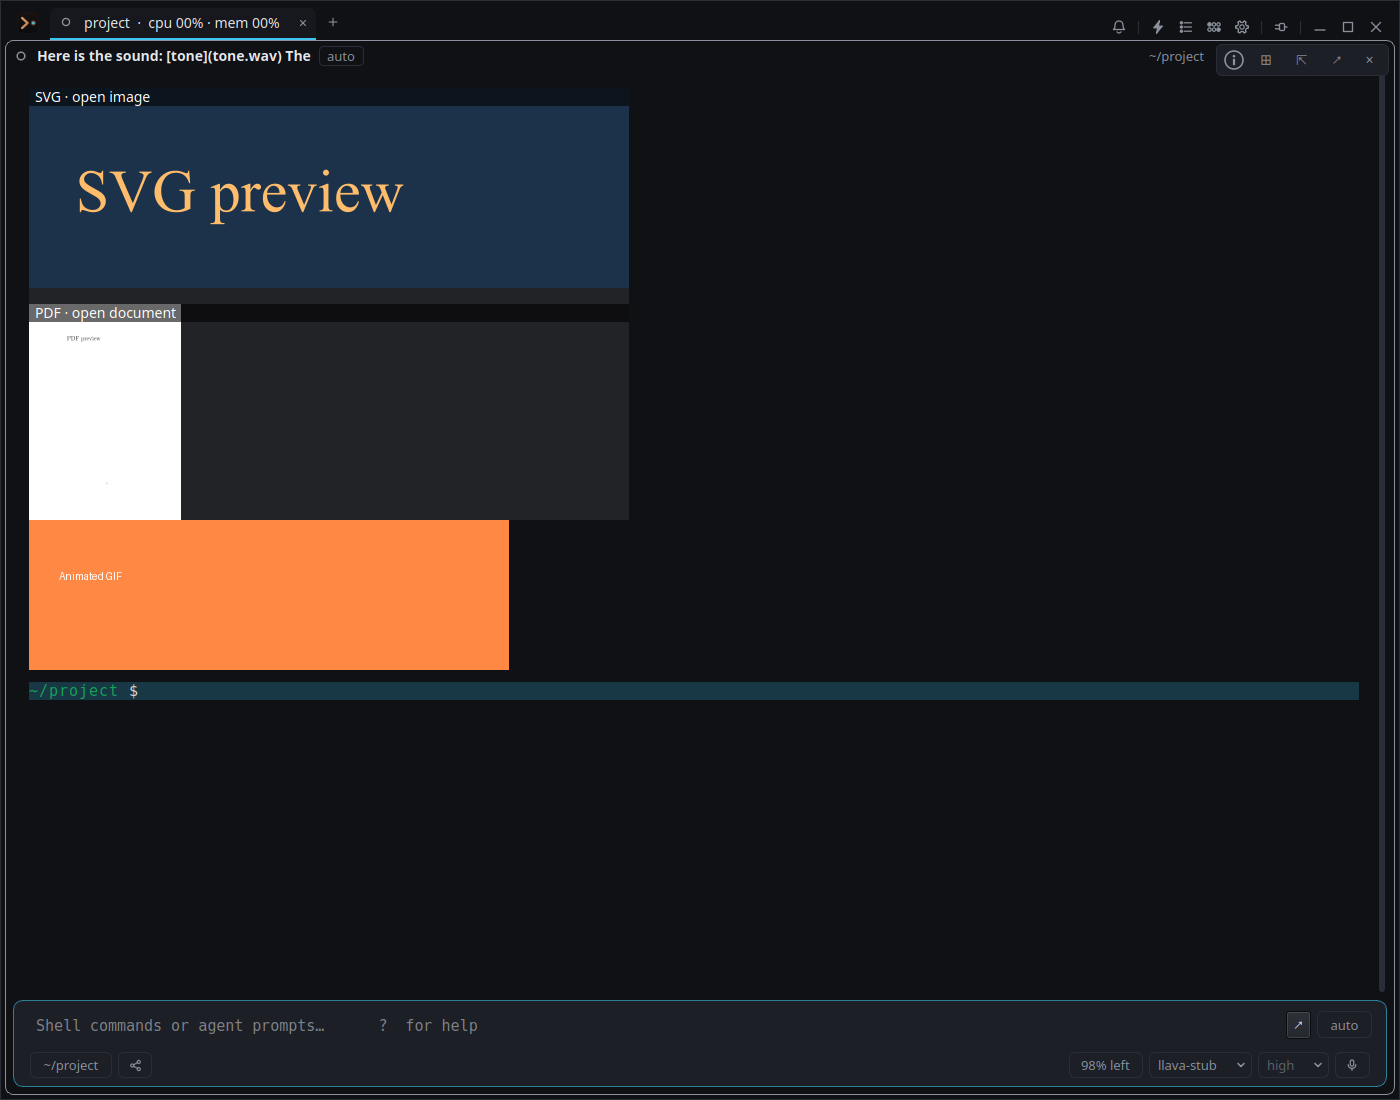
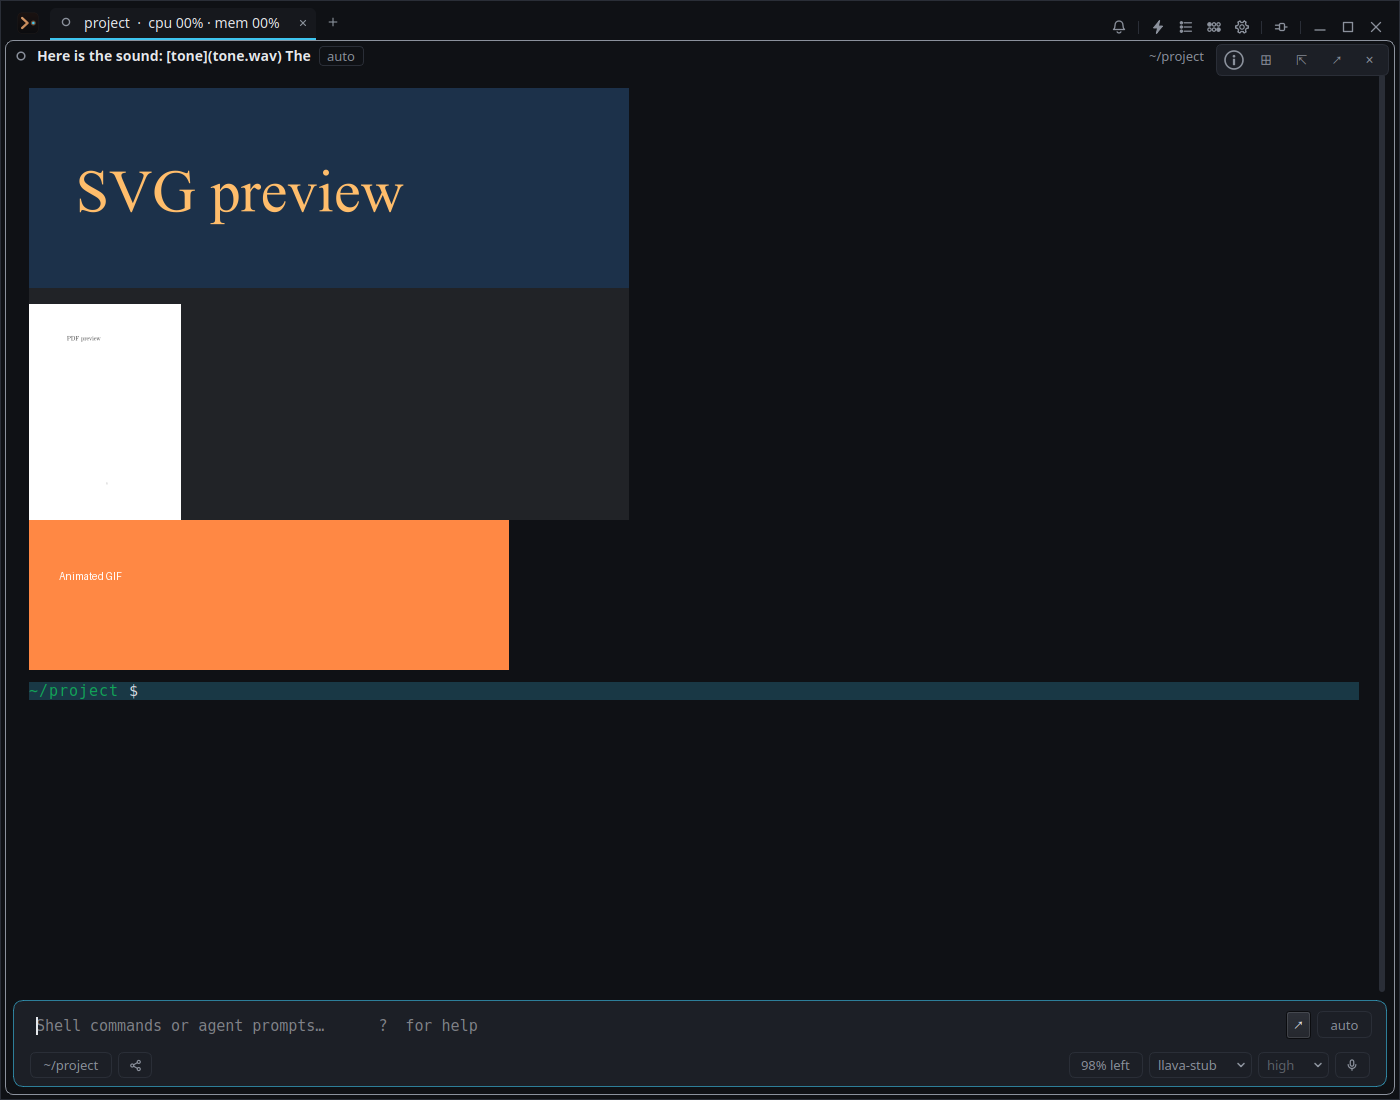
MDA7 drive: captionless previews and the drawn CSV table (#15G5)
Adds a 40-row CSV to the WebP step so the '… 25 more rows' line is exercised;
the README describes the previews without caption strips and the CSV drawn as
a table that opens the sortable window. Screenshots re-taken against 4d27d20.

Changed region(s): [[0.0, 0.0618, 0.4607, 0.1236], [0.0, 0.2782, 0.1229, 0.3091]]

diff --git a/docs/qa_evidence/2026-09-23-inline-media/README.md b/docs/qa_evidence/2026-09-23-inline-media/README.md
@@ -14,14 +14,14 @@ docs/qa_evidence/2026-09-23-inline-media/drive.sh
 
 | Screenshot | Observed behavior |
 | --- | --- |
-| `01-sound-table.png` | Audio player with waveform and duration, CSV sortable-table row. |
-| `07-table-open.png` | Clicking the CSV row opens the native table. |
-| `02-chart-video.png` | Local HTML chart snapshot and video poster inline. |
+| `01-sound-table.png` | Audio player with waveform and duration; the CSV drawn as a table (#15G5). |
+| `07-table-open.png` | Clicking the drawn CSV table opens the native sortable table. |
+| `02-chart-video.png` | Local HTML chart snapshot and video poster inline, with no caption strip (#15G5). |
 | `03-agent-math.png` | Agent-linked audio, rendered math, and a drawn Markdown table whose wide cell wraps inside its column, with no sortable-table row (#15G5). |
 | `04-restored.png` | Those media rows return after an app restart. |
 | `05-svg-pdf-animation.png` | SVG, PDF preview, and animated GIF inline. |
 | `06-animation-frame.png` | The GIF changes colour between captures; the drive checks a pixel. |
-| `08-webp.png` | Animated WebP inline. |
+| `08-webp.png` | Animated WebP inline; a 40-row CSV shows its first 15 rows and "… 25 more rows". |
 
 The screenshots are taken from Relay's actual window, not a mockup. The drive
 uses command-line fallbacks because this machine's Qt 6 install lacks Multimedia,
